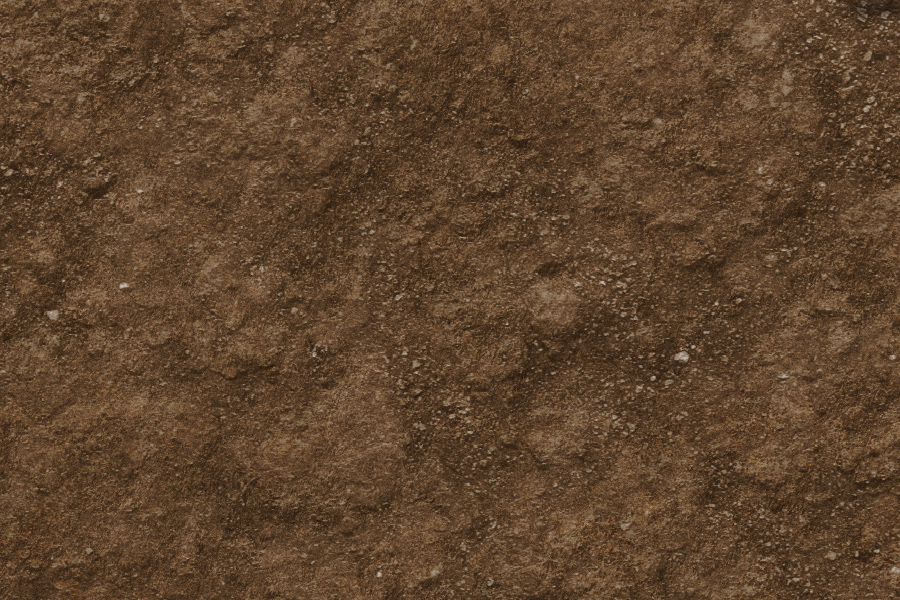
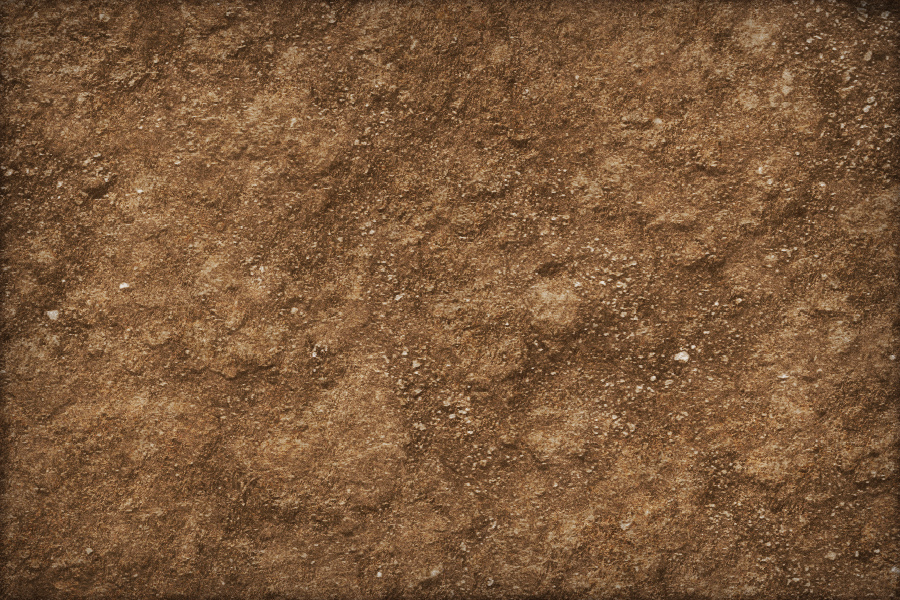
Closed #4 & updated graphics
Fixed the corners bug! Ants can no longer escape via the corners; the ants start turning around when they get too close, like they would naturally. I also made the background a bit prettier with a slight vignette, and edited the hole image slightly. Also corrected some of Antonio's approximated values.

diff --git a/ants/ants.py b/ants/ants.py
@@ -13,6 +13,7 @@ class Ant(pygame.sprite.Sprite):
         self.rect.x = 450
         self.rect.y = 300
         self.stop_count = 0
+        self.random_rotate = True
 
     def rotate(self, angle):
         self.direction += angle
@@ -22,6 +23,46 @@ class Ant(pygame.sprite.Sprite):
         while self.direction < 0:
             self.direction += 360
         self.direction %= 360
+
+    def turn_from_corner(self):
+        """
+        If ant moves towards corner, start turning away.
+
+        This needs to be refactored a lot - maybe a method for each 'if'.
+        """
+        self_x = self.rect.x
+        self_y = self.rect.y
+        direction = self.direction
+        random_rotate = False
+
+        if self_x <= 30 and self_y <= 30:  # Top left corner
+            if 45 < direction < 225:  # Towards left
+                direction += randint(8, 14)
+            else:  # Towards top
+                direction -= randint(8, 14)
+
+        elif self_x >= 846 and self_y <= 30:  # Top right corner
+            if 135 < direction < 315:  # Towards right
+                direction -= randint(8, 14)
+            else:  # Towards top
+                direction += randint(8, 14)
+
+        elif self_x <= 30 and self_y >= 546:  # Bottom left corner
+            if 135 < direction < 315:  # Towards bottom
+                direction += randint(8, 14)
+            else:  # Towards left
+                direction -= randint(8, 14)
+
+        elif self_x >= 846 and self_y >= 546:  # Bottom right corner
+            if 45 < direction < 225:  # Towards bottom
+                direction -= randint(4, 8)
+            else:  # Towards right
+                direction += randint(4, 8)
+
+        else:  # Not in any corners
+            random_rotate = True
+        self.random_rotate = random_rotate
+        self.direction = direction
 
     def change_collision_direction(self, boundary_value):
         if self.direction < boundary_value:
@@ -42,6 +83,7 @@ class Ant(pygame.sprite.Sprite):
 
     def detect_edge(self):
         self.resolve_direction()
+        self.turn_from_corner()
         if self.rect.x < 1:  # Left edge
             self.change_collision_direction(90)
         if self.rect.x > 875:  # Right edge
@@ -59,7 +101,6 @@ class Ant(pygame.sprite.Sprite):
             dx *= 1.5
         if dy > 0:
             dy *= 1.5
-        # print(str(dx) + " and " + str(dy))
         self.rect.x -= dx * distance
         self.rect.y += dy * distance
 
@@ -77,17 +118,14 @@ class Hole(pygame.sprite.Sprite):
         pygame.sprite.Sprite.__init__(self)
         self.image = pygame.image.load("images/hole01a.png").convert_alpha()
         self.rect = self.image.get_rect()
-        x = randint(1, 875)
-        y = randint(1, 575)
+        x = randint(1, 838)
+        y = randint(1, 538)
         if x not in Hole.keys and y not in Hole.values:
             self.rect.x = x
             self.rect.y = y
             Hole.previous_coordinates[self.rect.x] = self.rect.y
         else:
             self.__init__()
-
-
-
 
 
 def display_text(screen, text, size, location):
@@ -129,7 +167,7 @@ def main():
     # Load background image resource
     bg = pygame.image.load("images/bg01a.jpg")
 
-    ant_list = [Ant() for i in range(40)]
+    ant_list = [Ant() for i in range(5)]
     hole_list = [Hole() for i in range(3)]
 
     # Create groups for objects
